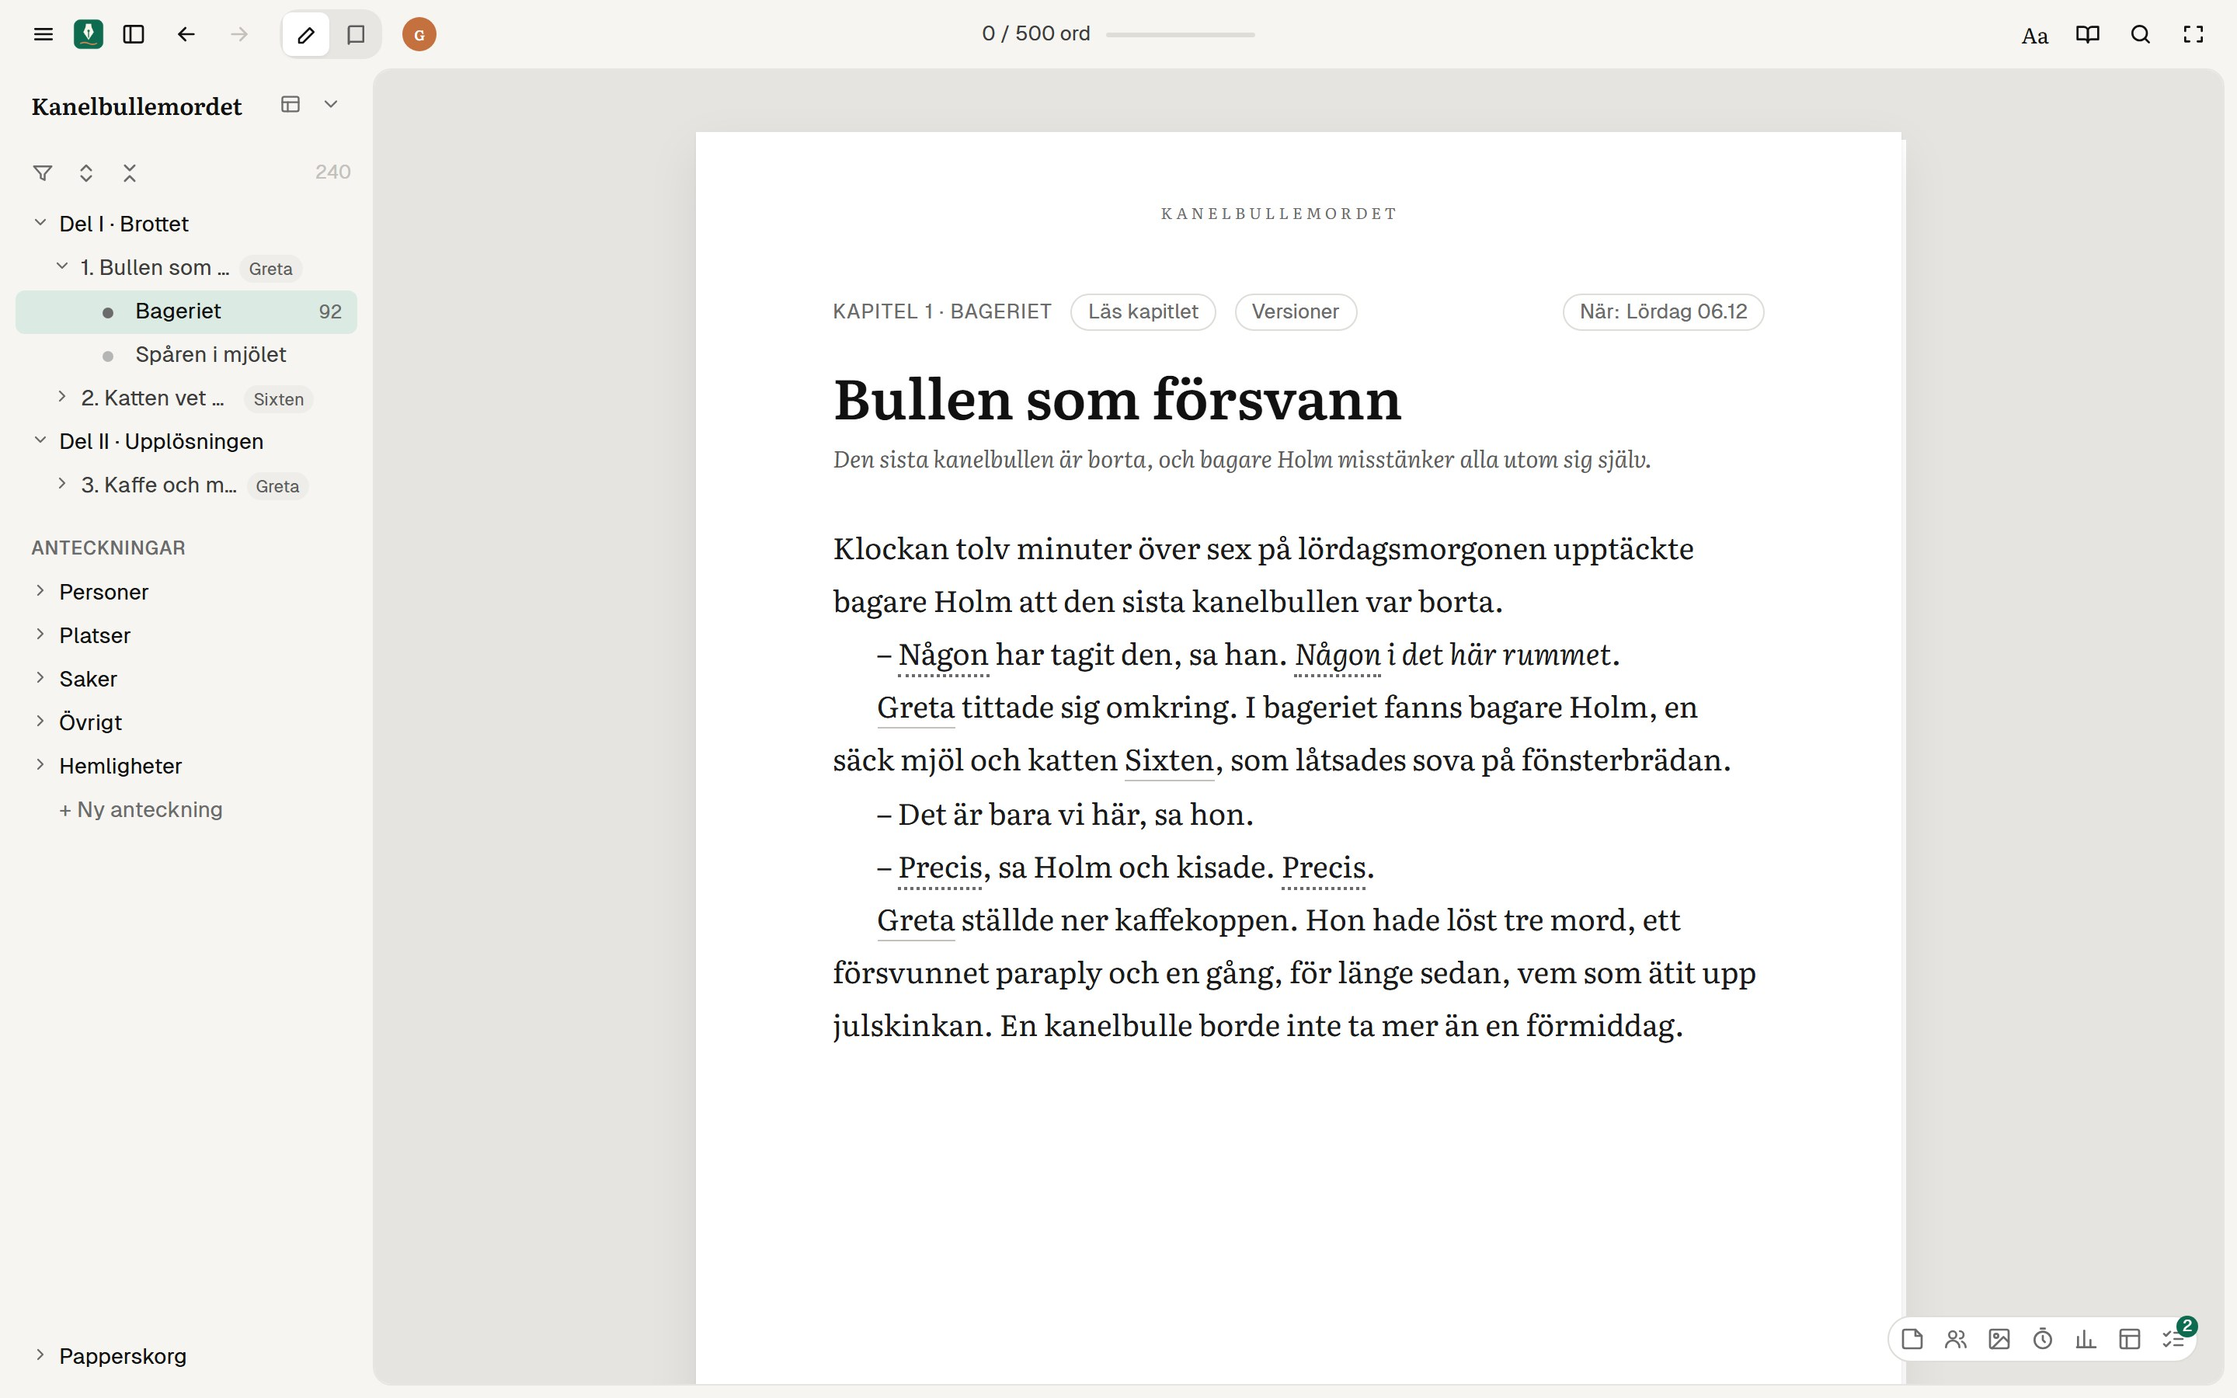
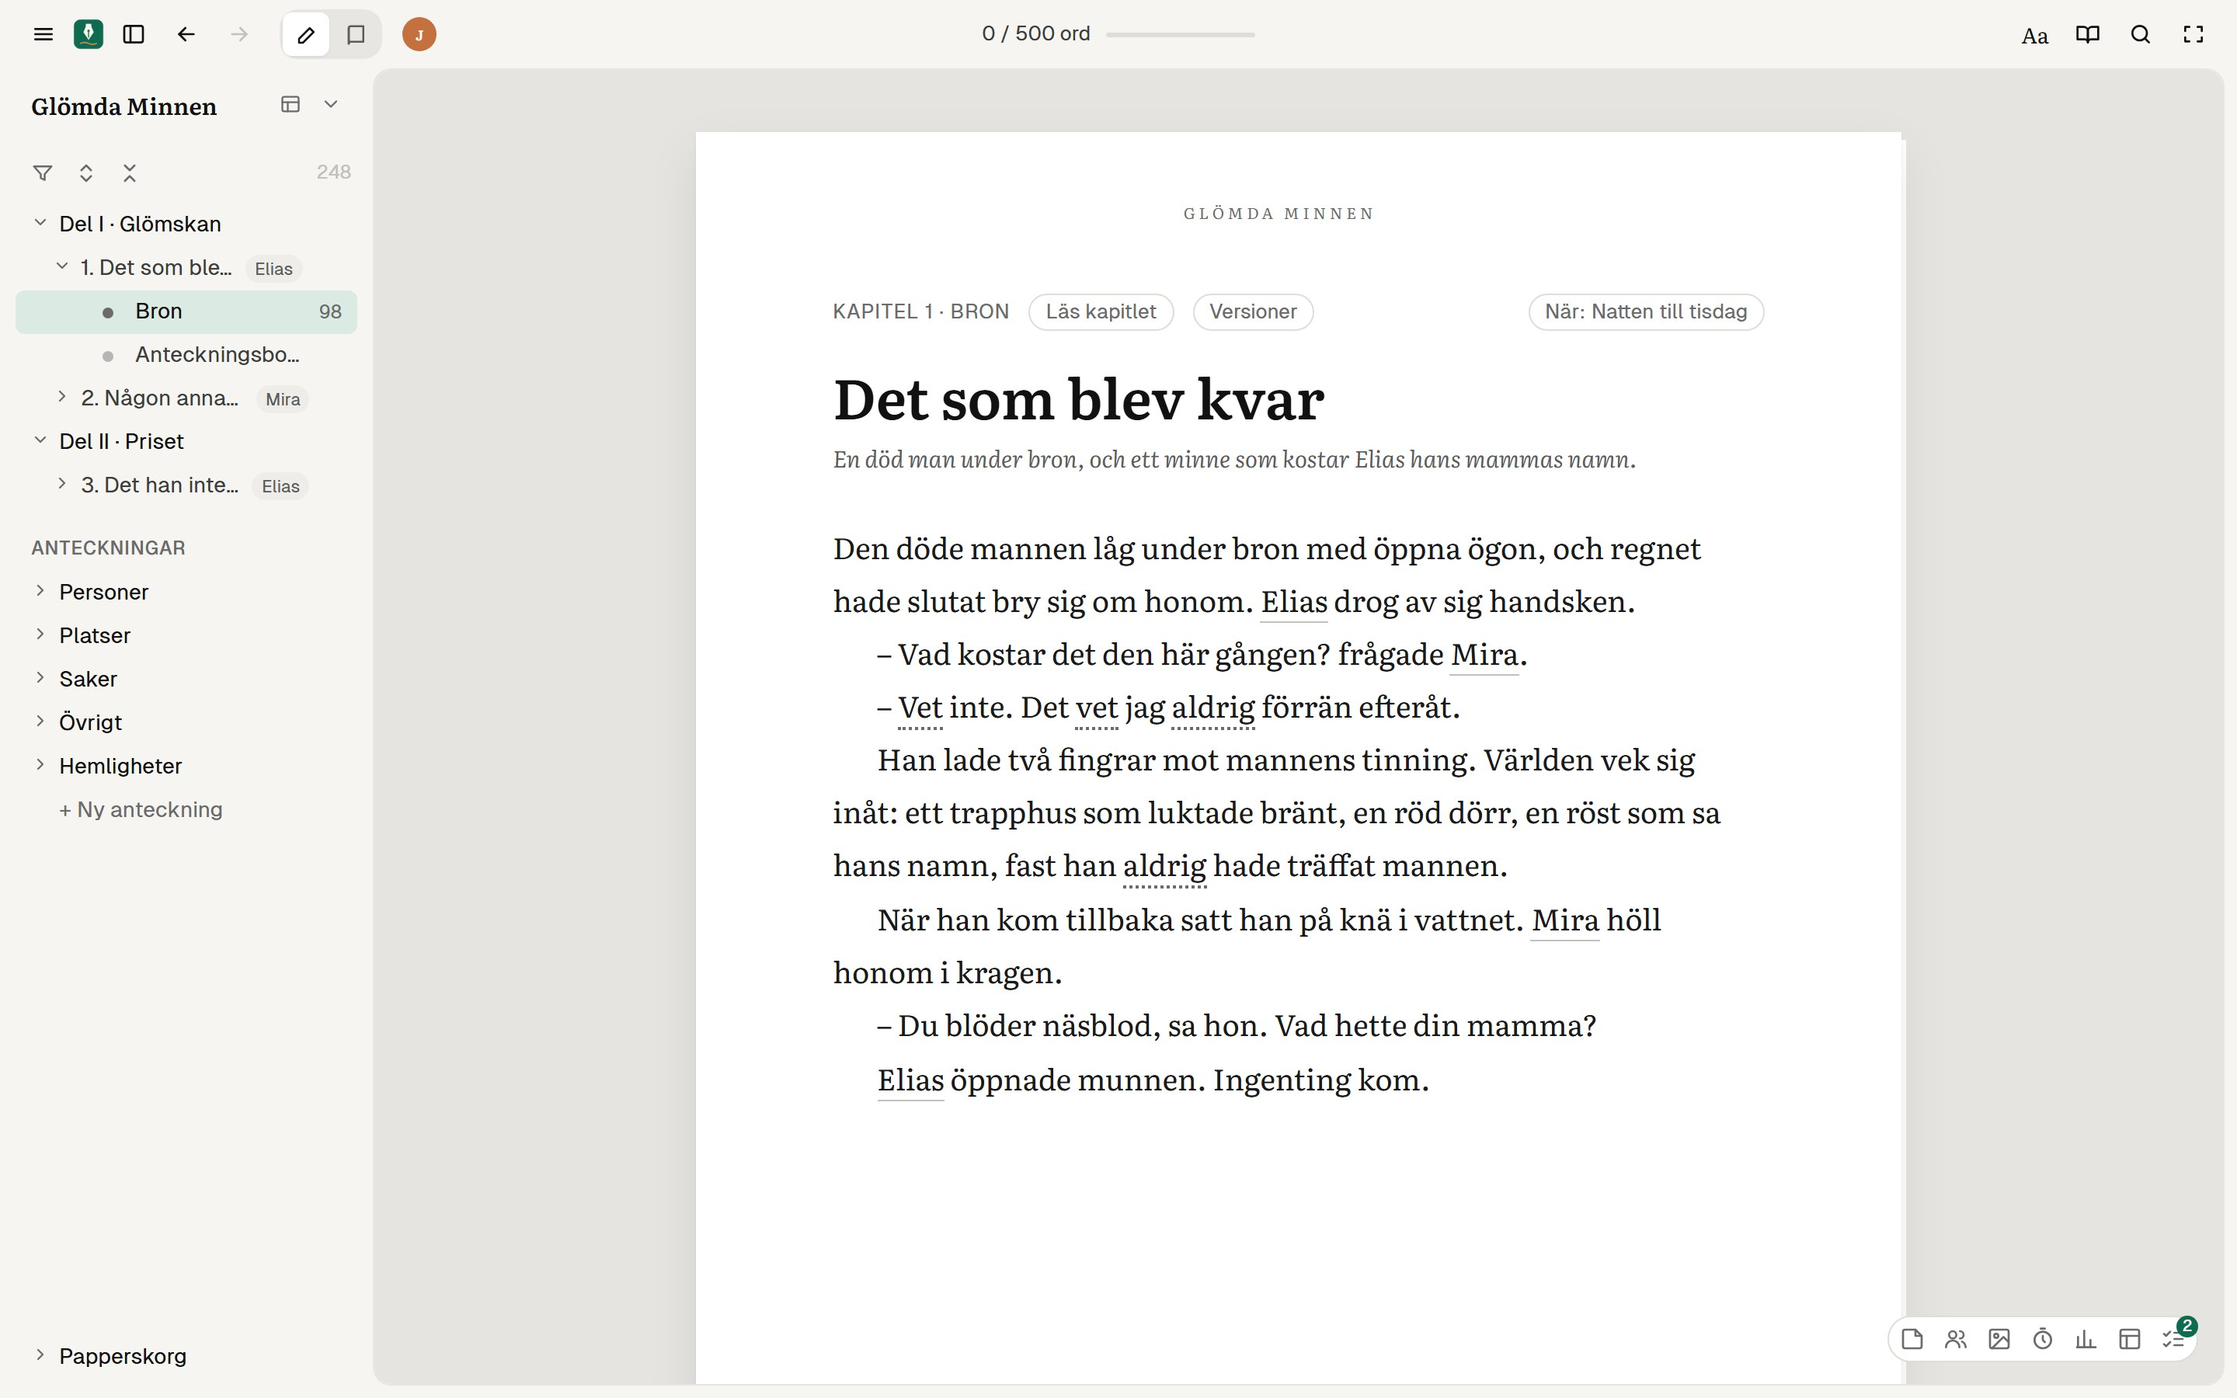
!U Butiker och webbsida: Glömda Minnen i bilderna
* Bilderna visar Glömda Minnen av J.Martinell, en mörk urban fantasy-deckare
* Ett eget omslag med en röd dörr, och på telefonen lyfts det fram framför skärmen
* Publicera visar omslaget under Bokuppgifter, Till förlag fyra inskick med svenska datum
* Inga riktiga namn: personerna i boken har bara förnamn

#REL 0.4.7

diff --git a/scripts/store/showcaseBook.ts b/scripts/store/showcaseBook.ts
@@ -1,84 +1,84 @@
 // The book in the store and website pictures: served in place of src/demo/demoProject.ts while
 // storeImages.mjs and siteImages.mjs take them, so the app itself never ships it.
 
-export const DEMO_PROJECT_DIR = "/Kanelbullemordet.skrivro";
+export const DEMO_PROJECT_DIR = "/Glömda Minnen.skrivro";
 
 const scene = (id: string, title: string, status: string, body: string) => ({
   [`${DEMO_PROJECT_DIR}/scenes/${id}.md`]: `---\nid: ${id}\ntitle: ${title}\nstatus: ${status}\n---\n${body}`,
 });
 
-const BAGERIET = `Klockan tolv minuter över sex på lördagsmorgonen upptäckte bagare Holm att den sista kanelbullen var borta.
+const BRON = `Den döde mannen låg under bron med öppna ögon, och regnet hade slutat bry sig om honom. Elias drog av sig handsken.
 
-– Någon har tagit den, sa han. *Någon i det här rummet.*
+– Vad kostar det den här gången? frågade Mira.
 
-Greta tittade sig omkring. I bageriet fanns bagare Holm, en säck mjöl och katten Sixten, som låtsades sova på fönsterbrädan.
+– Vet inte. Det vet jag aldrig förrän efteråt.
 
-– Det är bara vi här, sa hon.
+Han lade två fingrar mot mannens tinning. Världen vek sig inåt: ett trapphus som luktade bränt, en röd dörr, en röst som sa hans namn, fast han aldrig hade träffat mannen.
 
-– Precis, sa Holm och kisade. Precis.
+När han kom tillbaka satt han på knä i vattnet. Mira höll honom i kragen.
 
-Greta ställde ner kaffekoppen. Hon hade löst tre mord, ett försvunnet paraply och en gång, för länge sedan, vem som ätit upp julskinkan. En kanelbulle borde inte ta mer än en förmiddag.
+– Du blöder näsblod, sa hon. Vad hette din mamma?
+
+Elias öppnade munnen. Ingenting kom.
 `;
 
-const SPAREN = `Spåren i mjölet var små, runda och hade fyra tår. Greta böjde sig ner så långt hennes knän tillät.
+const ANTECKNINGSBOKEN = `Hemma läste han anteckningsboken från början, som varje kväll. Första sidan var skriven med hans egen handstil: Du heter Elias. Du kan läsa de dödas sista minnen. Varje gång tar det något från dig. Lita på Mira.
 
-– Sixten, sa hon.
-
-Katten öppnade ett öga, betraktade henne med djupt förakt och stängde det igen. Det var precis vad en skyldig katt skulle göra. Men det var också precis vad en oskyldig katt skulle göra. Det var det svåra med katter.
+Längst ner, med färskt bläck, skrev han: Mamma. Fråga Mira vad hon hette.
 `;
 
-const FONSTRET = `Sixten hade sett allt. Holm som smög upp mitt i natten, kylskåpsdörren som gled upp och smulorna som föll på golvet.
+const ARKIVET = `Mira hade arbetat med Elias i tre år, och han hade glömt henne två gånger. Hon förde hans journal i en låda i arkivet, under ett namn som inte fanns.
 
-Han tänkte inte säga ett ord. Ingen hade frågat honom om något sedan 2019, och då gällde det ett nystan.
+Den röda dörren fanns i ett hus som revs 1998. Ändå hade Elias sett den, i en död mans minne, och hört sitt eget namn bakom den.
 `;
 
-const FORHORET = `– Var befann du dig klockan tre i natt? frågade Greta.
+const SPEGELN = `– Någon har varit i ditt huvud före dig, sa kvinnan i spegeln. Hon log med hans mun.
 
-– I sängen, sa Holm. Jag sover som en stock.
+Elias tog ett steg bakåt. Bakom honom var hallen tom, men i spegeln stod dörren öppen. Den var röd.
 
-– Och mustaschen?
+– Vem är du?
 
-Holm tog sig om överläppen. Ett litet moln av pärlsocker singlade ner på disken. Ingen sa något på en lång stund. Sixten gäspade, mycket högt.
+– Den du glömde först.
 `;
 
-const GRETA = `78 år. Pensionerad postmästare. Har löst tre mord och ett försvunnet paraply.
+const ELIAS = `Minnesläsare. Ser de dödas sista minuter, men betalar med sina egna.
 
-Dricker kaffet svart och slutsatserna starka.
+Har glömt sin födelsedag, sin första kärlek och nu sin mammas namn.
 `;
 
-const HOLM = `Bagare på Gyllene Kringlan sedan 1986. Stolt över sina bullar, ännu stoltare över sin mustasch.
+const MIRA = `Kriminalinspektör. Den enda som minns Elias som han var.
 
-Går i sömnen. Vet inte om det.
+Säger aldrig hur många gånger hon har presenterat sig.
 `;
 
-const SIXTEN = `Katt. Huvudmisstänkt. Alibi: sov.
+const KVINNAN = `Finns bara i speglar och fönsterrutor. Känner Elias bättre än han själv.
 
-Har inte rört sig snabbare än nödvändigt sedan 2019.
+Vill ha tillbaka något.
 `;
 
-const KRINGLAN = `Litet bageri vid torget. Doftar kardemumma, öppnar sex och stänger när bullarna är slut.
+const DORREN = `Ett trapphus på söder, rivet 1998. Finns ändå kvar i minst tre döda mäns minnen.
 `;
 
-const BULLEN = `Den sista kanelbullen. Extra pärlsocker. Saknad sedan lördag morgon.
+const BOKEN = `Svart, sliten, halvfull. Det enda Elias inte får tappa.
 `;
 
-const IDEER = `Bok två: Mazarinmysteriet. Någon har ätit glasyren och lämnat resten.
+const IDEER = `Bok två: Mira börjar också glömma, och hon har ingen anteckningsbok.
 `;
 
-const SECRET = `Det var Holm. Han åt bullen i sömnen, och Sixten såg alltihop.
+const SECRET = `Det var Elias som stängde in kvinnan bakom dörren, innan han glömde att han hade gjort det.
 `;
 
 const IDS = {
-  bageriet: "01JA0SKRVRBK00000000000001",
-  sparen: "01JA0SKRVRBK00000000000002",
-  fonstret: "01JA0SKRVRBK00000000000003",
-  forhoret: "01JA0SKRVRBK00000000000004",
-  avslojandet: "01JA0SKRVRBK00000000000005",
-  greta: "01JA0SKRVRBK00000000000006",
-  holm: "01JA0SKRVRBK00000000000007",
-  sixten: "01JA0SKRVRBK00000000000008",
-  kringlan: "01JA0SKRVRBK00000000000009",
-  bullen: "01JA0SKRVRBK00000000000010",
+  bron: "01JA0SKRVRBK00000000000001",
+  anteckningsboken: "01JA0SKRVRBK00000000000002",
+  arkivet: "01JA0SKRVRBK00000000000003",
+  spegeln: "01JA0SKRVRBK00000000000004",
+  slutet: "01JA0SKRVRBK00000000000005",
+  elias: "01JA0SKRVRBK00000000000006",
+  mira: "01JA0SKRVRBK00000000000007",
+  kvinnan: "01JA0SKRVRBK00000000000008",
+  dorren: "01JA0SKRVRBK00000000000009",
+  boken: "01JA0SKRVRBK00000000000010",
   ideer: "01JA0SKRVRBK00000000000011",
   secret: "01JA0SKRVRBK00000000000012",
 };
@@ -87,49 +87,49 @@ const MANUSCRIPT = [
   {
     id: "01JA0SKRVRBK000000000000P1",
     kind: "part",
-    title: "Brottet",
+    title: "Glömskan",
     children: [
       {
         id: "01JA0SKRVRBK000000000000C1",
         kind: "chapter",
-        title: "Bullen som försvann",
-        summary: "Den sista kanelbullen är borta, och bagare Holm misstänker alla utom sig själv.",
-        when: "Lördag 06.12",
-        pov: "Greta",
+        title: "Det som blev kvar",
+        summary: "En död man under bron, och ett minne som kostar Elias hans mammas namn.",
+        when: "Natten till tisdag",
+        pov: "Elias",
         children: [
-          { id: IDS.bageriet, kind: "scene" },
-          { id: IDS.sparen, kind: "scene" },
+          { id: IDS.bron, kind: "scene" },
+          { id: IDS.anteckningsboken, kind: "scene" },
         ],
       },
       {
         id: "01JA0SKRVRBK000000000000C2",
         kind: "chapter",
-        title: "Katten vet något",
-        subtitle: "Sixten",
-        summary: "Sixten har sett allt, men ingen frågar en katt.",
-        when: "Natten innan",
-        pov: "Sixten",
-        children: [{ id: IDS.fonstret, kind: "scene", labels: ["kolla-fakta"] }],
+        title: "Någon annans minne",
+        subtitle: "Mira",
+        summary: "Den röda dörren finns inte längre, men någon har sett den.",
+        when: "Tisdag",
+        pov: "Mira",
+        children: [{ id: IDS.arkivet, kind: "scene", labels: ["kolla-fakta"] }],
       },
     ],
   },
   {
     id: "01JA0SKRVRBK000000000000P2",
     kind: "part",
-    title: "Upplösningen",
+    title: "Priset",
     children: [
       {
         id: "01JA0SKRVRBK000000000000C3",
         kind: "chapter",
-        title: "Kaffe och misstankar",
-        summary: "Greta förhör Holm och ser något vitt i hans mustasch.",
-        epigraph: "Den som har smulor i mustaschen ska inte kasta kanelbullar.",
-        epigraphBy: "Gammalt bagarordspråk",
-        when: "Lördag 10.30",
-        pov: "Greta",
+        title: "Det han inte får glömma",
+        summary: "Spegeln visar en dörr som Elias en gång stängde.",
+        epigraph: "Allt man glömmer väntar någonstans.",
+        epigraphBy: "Ur Elias anteckningsbok",
+        when: "Torsdag 03.10",
+        pov: "Elias",
         children: [
-          { id: IDS.forhoret, kind: "scene", labels: ["skriv-om"] },
-          { id: IDS.avslojandet, kind: "scene", labels: ["lucka"] },
+          { id: IDS.spegeln, kind: "scene", labels: ["skriv-om"] },
+          { id: IDS.slutet, kind: "scene", labels: ["lucka"] },
         ],
       },
     ],
@@ -141,23 +141,23 @@ const NOTES = [
     id: "karaktarer",
     kind: "sort",
     title: "Personer",
-    children: [IDS.greta, IDS.holm, IDS.sixten],
+    children: [IDS.elias, IDS.mira, IDS.kvinnan],
   },
-  { id: "platser", kind: "sort", title: "Platser", children: [IDS.kringlan] },
-  { id: "saker", kind: "sort", title: "Saker", children: [IDS.bullen] },
+  { id: "platser", kind: "sort", title: "Platser", children: [IDS.dorren] },
+  { id: "saker", kind: "sort", title: "Saker", children: [IDS.boken] },
   { id: "anteckningar", kind: "sort", title: "Övrigt", children: [IDS.ideer] },
 ].map((sort) => ({ ...sort, children: sort.children.map((id) => ({ id, kind: "scene" })) }));
 
 const PROJECT = {
-  title: "Kanelbullemordet",
+  title: "Glömda Minnen",
   type: "roman",
-  genre: "Mysdeckare",
+  genre: "Urban fantasy",
   dailyGoal: 500,
   submissions: [
-    ["Kardemummaförlaget", "2026-03-02", "nej"],
-    ["Bokhuset Mjölsäcken", "2026-03-02", "mer"],
-    ["Agentur Pärlsocker", "2026-03-14", "skickat"],
-    ["Förlaget Sockerkringlan", "2026-04-01", "ja"],
+    ["Förlaget Blyertsen", "2026-03-02", "nej"],
+    ["Bokhuset Kommatecknet", "2026-03-02", "mer"],
+    ["Agentur Marginalanteckningen", "2026-03-14", "skickat"],
+    ["Förlaget Sista Sidan", "2026-04-01", "ja"],
   ].map(([to, sent, status], row) => ({
     id: `01JA0SKRVRBK000000000000S${row + 1}`,
     to,
@@ -166,9 +166,9 @@ const PROJECT = {
     note: "",
   })),
   connections: {
-    [IDS.greta]: [
-      { id: IDS.holm, role: "granne" },
-      { id: IDS.sixten, role: "inneboende" },
+    [IDS.elias]: [
+      { id: IDS.mira, role: "arbetar med" },
+      { id: IDS.kvinnan, role: "jagas av" },
     ],
   },
   tree: [
@@ -182,8 +182,8 @@ const PROJECT = {
         {
           id: IDS.secret,
           kind: "scene",
-          reveal: IDS.forhoret,
-          knownBy: { [IDS.sixten]: IDS.fonstret },
+          reveal: IDS.spegeln,
+          knownBy: { [IDS.mira]: IDS.arkivet },
         },
       ],
     },
@@ -193,11 +193,11 @@ const PROJECT = {
 const COMMENT = [
   {
     id: "01JA0SKRVRBK000000000000K1",
-    quote: "kylskåpsdörren som gled upp",
-    prefix: "mitt i natten, ",
-    suffix: " och smulorna som föll",
-    body: "Ser katter i mörker? Kolla fakta, eller fråga en katt.",
-    author: "Redaktören",
+    quote: "i ett hus som revs 1998",
+    prefix: "Den röda dörren fanns ",
+    suffix: ". Ändå",
+    body: "Kan ett minne vara yngre än huset? Bestäm regeln innan kapitel fem.",
+    author: "Lektören",
     createdAt: 1_760_000_000_000,
     resolved: false,
   },
@@ -207,7 +207,7 @@ const STICKY = [
   {
     id: "01JA0SKRVRBK000000000000L1",
     color: "gul",
-    text: "Vem har smulor i mustaschen?\n\nHolm. Alltid Holm.",
+    text: "Vad tar magin först: det nyaste eller det käraste?\n\nDet käraste. Alltid.",
     strokes: [],
     left: 24,
     top: 64,
@@ -220,18 +220,18 @@ const json = (value: unknown) => `${JSON.stringify(value, null, 2)}\n`;
 
 export const DEMO_PROJECT_FILES: Record<string, string> = {
   [`${DEMO_PROJECT_DIR}/project.json`]: json(PROJECT),
-  ...scene(IDS.bageriet, "Bageriet", "redigering", BAGERIET),
-  ...scene(IDS.sparen, "Spåren i mjölet", "utkast", SPAREN),
-  ...scene(IDS.fonstret, "Fönsterbrädan", "utkast", FONSTRET),
-  ...scene(IDS.forhoret, "Förhöret", "utkast", FORHORET),
-  ...scene(IDS.avslojandet, "Avslöjandet", "idé", ""),
-  ...scene(IDS.greta, "Greta", "utkast", GRETA),
-  ...scene(IDS.holm, "Bagare Holm", "utkast", HOLM),
-  ...scene(IDS.sixten, "Sixten", "utkast", SIXTEN),
-  ...scene(IDS.kringlan, "Gyllene Kringlan", "utkast", KRINGLAN),
-  ...scene(IDS.bullen, "Den sista kanelbullen", "utkast", BULLEN),
+  ...scene(IDS.bron, "Bron", "redigering", BRON),
+  ...scene(IDS.anteckningsboken, "Anteckningsboken", "utkast", ANTECKNINGSBOKEN),
+  ...scene(IDS.arkivet, "Arkivet", "utkast", ARKIVET),
+  ...scene(IDS.spegeln, "Spegeln", "utkast", SPEGELN),
+  ...scene(IDS.slutet, "Slutet", "idé", ""),
+  ...scene(IDS.elias, "Elias", "utkast", ELIAS),
+  ...scene(IDS.mira, "Mira", "utkast", MIRA),
+  ...scene(IDS.kvinnan, "Kvinnan i spegeln", "utkast", KVINNAN),
+  ...scene(IDS.dorren, "Den röda dörren", "utkast", DORREN),
+  ...scene(IDS.boken, "Den svarta boken", "utkast", BOKEN),
   ...scene(IDS.ideer, "Idéer", "utkast", IDEER),
-  ...scene(IDS.secret, "Det var Holm", "utkast", SECRET),
-  [`${DEMO_PROJECT_DIR}/comments/${IDS.fonstret}.json`]: json(COMMENT),
+  ...scene(IDS.secret, "Elias stängde dörren", "utkast", SECRET),
+  [`${DEMO_PROJECT_DIR}/comments/${IDS.arkivet}.json`]: json(COMMENT),
   [`${DEMO_PROJECT_DIR}/lappar.json`]: json(STICKY),
 };

diff --git a/site/en.html b/site/en.html
@@ -139,7 +139,7 @@
               src="bilder/person.png"
               width="1440"
               height="900"
-              alt="The person Greta, with her connections, lines and the chapters that name her"
+              alt="The person Elias, with his connections, lines and the chapters that name him"
             />
           </div>
         </section>
@@ -163,7 +163,7 @@
               src="bilder/granska.png"
               width="1440"
               height="900"
-              alt="Review beside the text, with a comment from the editor"
+              alt="Review beside the text, with a comment from the reader"
             />
           </div>
         </section>

diff --git a/site/index.html b/site/index.html
@@ -142,7 +142,7 @@
               src="bilder/person.png"
               width="1440"
               height="900"
-              alt="Personen Greta, med kopplingar, repliker och kapitlen där hon nämns"
+              alt="Personen Elias, med kopplingar, repliker och kapitlen där han nämns"
             />
           </div>
         </section>
@@ -166,7 +166,7 @@
               src="bilder/granska.png"
               width="1440"
               height="900"
-              alt="Granska bredvid texten, med en kommentar från redaktören"
+              alt="Granska bredvid texten, med en kommentar från lektören"
             />
           </div>
         </section>
